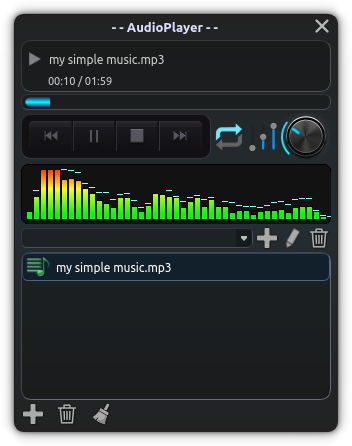
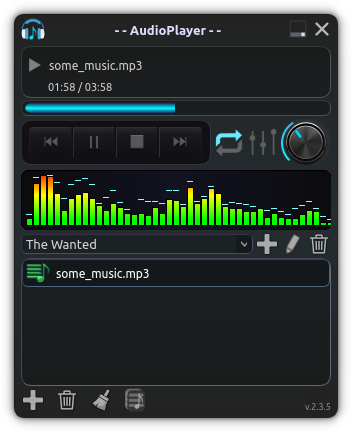
add a tooltip

diff --git a/mainwindow.py b/mainwindow.py
@@ -381,4 +381,6 @@ QListView::item:selected:hover {background: rgba(0, 0, 0, 60); color:  aqua;}'''
         self.l_addfile.setToolTip(tr("add_track_to_playlist"))
         self.l_delfile.setToolTip(tr("remove_track"))
         self.l_clearplaylist.setToolTip(tr("clear_playlist"))
+        self.l_copytoplaylist.setToolTip(tr("copy_to_playlist"))
+
 import images_rc

diff --git a/AudioPlayer.py b/AudioPlayer.py
@@ -17,7 +17,7 @@ from lang import tr
 os.chdir(os.path.dirname(os.path.realpath(__file__)))  # need for bass library loading
 from BASSPlayer import BassPlayer, PlayMode_Playing, PlayMode_Paused
 
-VERSION = '2.3.5'
+VERSION = '2.3.6'
 
 
 # for one application instance only
